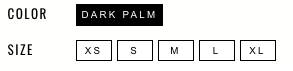
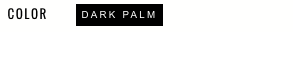
add hover class to images and descriptions, create sizing table

Changed region(s): [[0.2457, 0.5634, 0.9522, 0.8732], [0.0, 0.6197, 0.1229, 0.7887], [0.5836, 0.6479, 0.6143, 0.7606]]

diff --git a/index.html b/index.html
@@ -33,22 +33,44 @@
             <li>two welt pockets</li>
             <li>Padded Shoulders</li>
           </ul>
+          <img id="size-info" src="img/size.png" alt="Size">
+          <table>
+            <thead>
+              <th>XS</th>
+              <th>S</th>
+              <th>M</th>
+              <th>L</th>
+              <th>XL</th>
+            </thead>
+          </table>
           <img id="color-size-info" src="img/color-size-info.png" alt="Color/Size options">
         </div>
         <div class="gallery">
-          <h4>New, summer looks you may also fancy:</h4>
-          <img id="shirt" src="img/knowles-shirt.png" alt="The Knowles Shirt image">
-          <p class="gallery-image" id="shirt-image">The Knowles Shirt</p>
-          <img id="renee-sunglasses" src="img/renee-sunglasses.png" alt="Renee Sunglasses image">
-          <p class="gallery-image" id="renee-image">Renee Sunglasses</p>
-          <img id="speaker" src="img/retro-sound-speaker.png" alt="Retro Sound Speaker image">
-          <p class="gallery-image" id="retro-image">Retro Sound Speaker</p>
-          <img id="slay" src="img/slay-plaque.png" alt="I Came to Slay Plaque Image">
-          <p class="gallery-image" id="slay-image">'I Came to Slay' Plaque</p>
-          <img id="timeless-sunglasses" src="img/timeless-sunglasses.png" alt="Timeless Sunglasses Image">
-          <p class="gallery-image" id="timeless-image">Timeless Sunglasses</p>
-          <img id="cactus" src="img/cactus-float.png" alt="Cactus Float Image">
-          <p class="gallery-image" id="cactus-image">Cactus Float</p>
+          <h4>You will probably dig these, too:</h4>
+          <div class="gallery-image">
+            <img class="hover-image" id="shirt" src="img/knowles-shirt.png" alt="The Knowles Shirt image">
+            <p class="description" id="shirt-description">The Knowles Shirt</p>
+          </div>
+          <div class="gallery-image">
+            <img class="hover-image" id="renee-sunglasses" src="img/renee-sunglasses.png" alt="Renee Sunglasses image">
+            <p class="description" id="renee-description">Renee Sunglasses</p>
+          </div>
+          <div class="gallery-image">
+            <img class="hover-image" id="speaker" src="img/retro-sound-speaker.png" alt="Retro Sound Speaker image">
+            <p class="description" id="speaker-description">Retro Sound Speaker</p>
+          </div>
+          <div class="gallery-image">
+            <img class="hover-image" id="slay" src="img/slay-plaque.png" alt="I Came to Slay Plaque Image">
+            <p class="description" id="slay-description">'I Came to Slay' Plaque</p>
+          </div>
+          <div class="gallery-image">
+            <img class="hover-image" id="timeless-sunglasses" src="img/timeless-sunglasses.png" alt="Timeless Sunglasses Image">
+            <p class="description" id="timeless-description">Timeless Sunglasses</p>
+          </div>
+          <div class="gallery-image">
+            <img class="hover-image" id="cactus" src="img/cactus-float.png" alt="Cactus Float Image">
+            <p class="description" id="cactus-description">Cactus Float</p>
+          </div>
         </div>
       </div>
     </div>

diff --git a/css/styles.css b/css/styles.css
@@ -61,17 +61,38 @@ a:hover {
   color: rgba(186,54,208, 1);
 }
 
+table {
+  position: absolute;
+  top: 230px;
+  left: 370px;
+  z-index: 3;
+  border-spacing: 0.5rem;
+  /*border-collapse: collapse;*/
+  /*border: 1px solid black;*/
+  margin: 0 auto;
+  border-radius: 5px;
+  font-family: 'Coco-Gothic';
+  font-size: 12px;
+}
+
+th {
+  border: 1px solid black;
+  padding-left: 0.5rem;
+  padding-right: 0.5em;
+  text-align: left;
+}
+
 .masthead {
   position: fixed;
   box-shadow: 0px 6px 6px rgba(108, 108, 109, 0.2);
   width: 100%;
-  z-index: 9000;
+  z-index: 1;
   padding-left: 5px;
-  background: rgba(186,54,208, 1); /* For browsers that do not support gradients */
+  background: rgba(186,54,208, 1); /* For browsers that do not support gradients
   background: -webkit-linear-gradient(left, rgba(138, 243, 255, 1), rgba(186,54,208, 1)); /* For Safari 5.1 to 6.0 */
   background: -o-linear-gradient(right, rgba(138, 243, 255, 1), rgba(186,54,208, 1)); /* For Opera 11.1 to 12.0 */
   background: -moz-linear-gradient(right, rgba(138, 243, 255, 1), rgba(186,54,208, 1)); /* For Firefox 3.6 to 15 */
-  background: linear-gradient(to right, rgba(138, 243, 255, 1), rgba(186,54,208, 1)); /* Standard syntax */
+  background: linear-gradient(to right, rgba(138, 243, 255, 1), rgba(186,54,208, 1)); /* Standard syntax */*/
 }
 
 .container {
@@ -94,8 +115,12 @@ a:hover {
   padding-right: 7%;
 }
 
-.gallery-image {
+.description {
   position: absolute;
+  font-family: 'Coco-Gothic';
+  font-size: 12px;
+  font-style: italic;
+  display: none;
 }
 
 #product-image {
@@ -128,6 +153,12 @@ a:hover {
   padding: 5px;
 }
 
+#size-info {
+  position: absolute;
+  left: 310px;
+  top: 235px;
+}
+
 #color-size-info {
   position: absolute;
   top: 200px;
@@ -154,13 +185,25 @@ a:hover {
   margin-right: 40px;
 }
 
+#shirt-description {
+  left: 33px;
+}
+
 #renee-sunglasses {
   float: left;
   margin-right: 40px;
 }
 
+#renee-description {
+  left: 225px;
+}
+
 #speaker {
   float: left;
+}
+
+#speaker-description {
+  left: 415px;
 }
 
 #slay {
@@ -170,14 +213,38 @@ a:hover {
   margin-right: 40px;
 }
 
+#slay-description {
+  left: 33px;
+  top: 150px;
+}
+
 #timeless-sunglasses {
   margin-top: 5px;
   float: left;
   margin-right: 40px;
 }
 
+#timeless-description {
+  left: 225px;
+  top: 150px;
+}
+
 #cactus {
   margin-top: 5px;
   float: left;
   margin-right: 10px;
+}
+
+#cactus-description {
+  left: 415px;
+  top: 150px;
+}
+
+.hover-image:hover {
+  box-shadow: 0px 0px 100px rgb(138, 243, 255);
+
+}
+
+.hover-image:hover ~ .description {
+  display:inline;
 }
